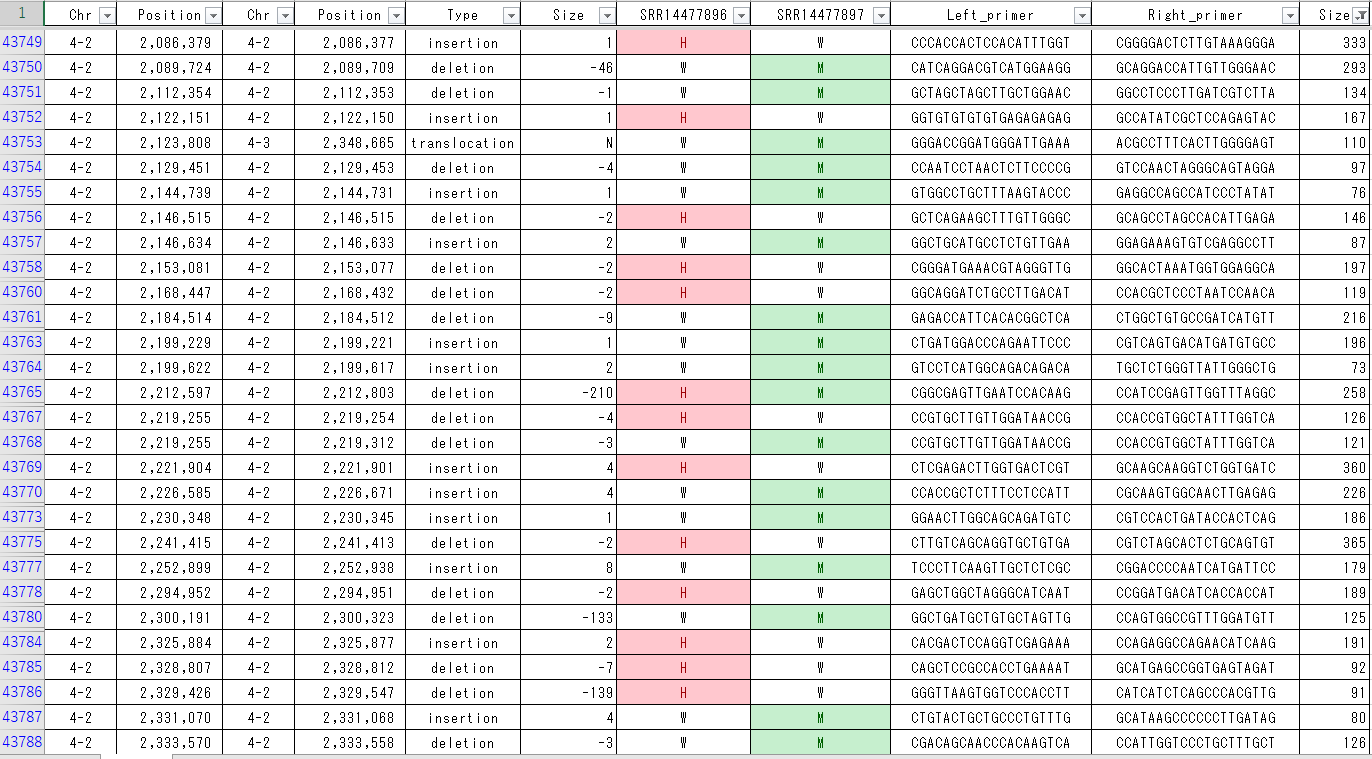
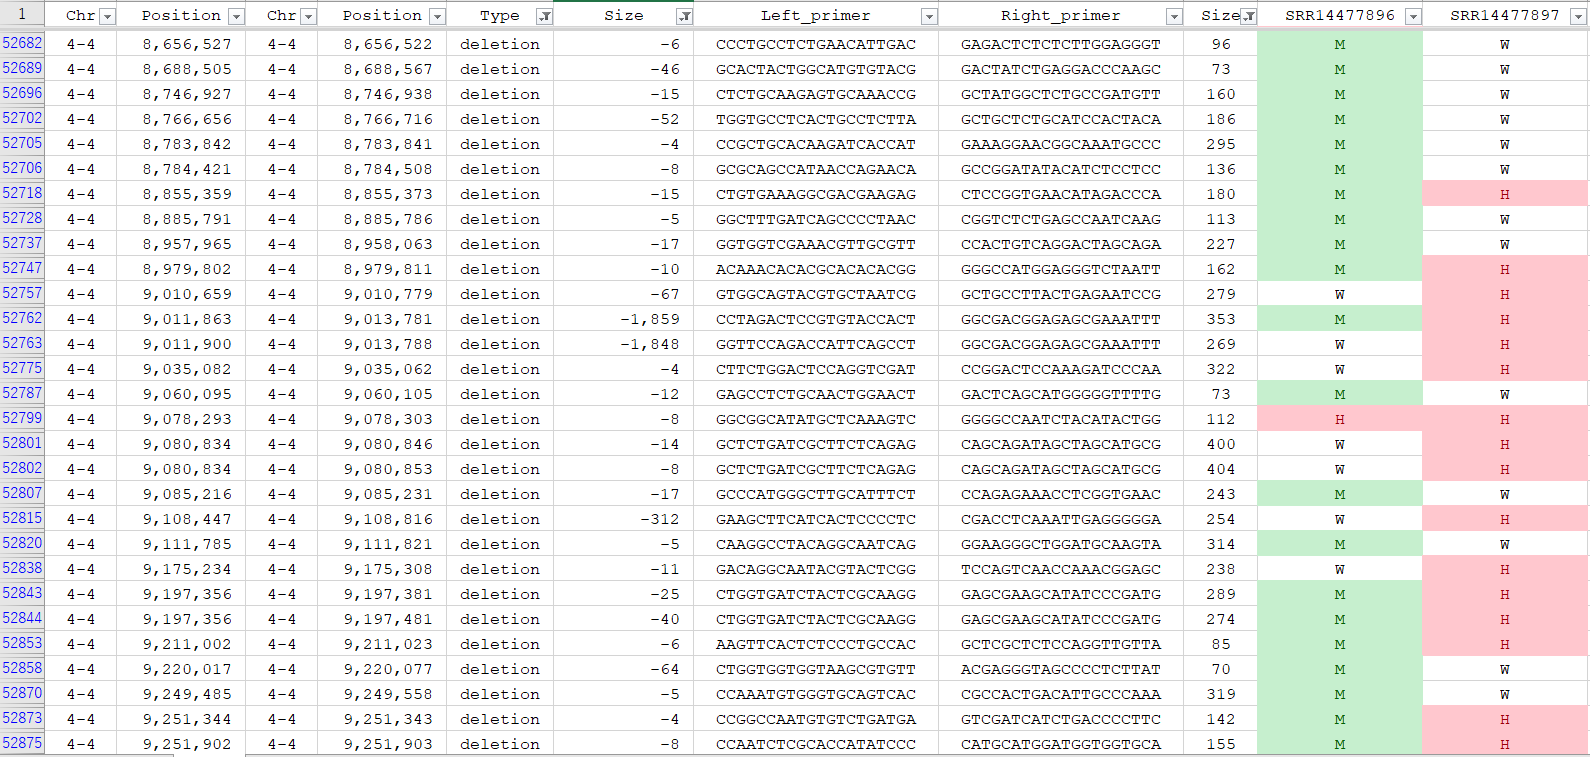
update tomato and strawberry page

diff --git a/tomato/index.html b/tomato/index.html
@@ -13,7 +13,8 @@
 <a href = "tomato_sv.png" target = "_blank"><img src = "tomato_sv.png" height = "25%"></a>
 <a href = "tomato.png" target = "_blank"><img src = "tomato.png" height = "25%"></a> 表をクリックすると拡大されます。<br>
 第3染色体の68,264,550までは、ERR5348981はリファレンスと同じで、ERR5348982がリファレンスに対して変異型のセグメントを持っており、<br>
-68,264,741からは、逆にERR5348981が変異型のセグメントを持っていることがわかります。
+68,264,741からは、逆にERR5348981が変異型のセグメントを持っていることがわかります。<br>
+緑色でマークしたMが変異型ホモ、ここには見えていませんがHがヘテロ、Wがリファレンスと同じ野生型となっています。
 
     </ul>
     <h2>Ubuntuのインストール</h2>
@@ -105,17 +106,20 @@ GGGGTCTAGATTCCGGTCGTGACAAAAACATTTTCTGGAAAATGTTTTTCGCCATACCAAACACACCCTAATCTCAATTT
     vcfファイルは、indelの始まる一つ前の塩基の位置を出力しますが、ped.plのアラインメントでは、変異が始まった最初の塩基の位置を出力しています。<br>
     indelのアラインメントの検索を行う場合は、vcfファイルの位置に1を加えた値で検索してください。
 
-    <li>2つの解析結果からの遺伝子型の比較<br>
-    $ perl compare.pl ERR5348981 ERR5348982<br>
+    <li>複数のの解析結果からの遺伝子型の比較<br>
+    $ perl compare.pl target=ERR5348981:ERR5348982<br>
     とすると、ERR5348981とERR5348982のSNPの遺伝子型と確認用プライマー配列が表示されます。<br><br>
     置換変異を見たい場合は、<br>
-    $ perl compare.pl ERR5348981 ERR5348982<br><br>
+    $ perl compare.pl target=ERR5348981:ERR5348982<br><br>
     構造変異を見たい場合は、<br>
-    $ perl compare.pl ERR5348981 ERR5348982 sv<br>
+    $ perl compare.pl target=ERR5348981:ERR5348982,type=sv<br>
 とします。<br><br>
 ファイルに出力したい場合は、<br>
-    $ perl compare.pl ERR5348981 ERR5348982 > result.txt<br>
-のようにします。<br><br>
+    $ perl compare.pl target=ERR5348981:ERR5348982 > result.txt<br>
+のようにします。<br>
+    ターゲット(ディレクトリ)名を:で区切って target= の後に列挙すれば、結果の遺伝子型のカラムもその順に表示されます。<br>
+    オプションにスペースを入れないように注意してください。<br><br>
+
 エクセルに取り込み、遺伝子型に色を付けるとセグメントがわかります。<br>
 <a href = "tomato_sv.png" target = "_blank"><img src = "tomato_sv.png" width = "25%"></a>     </ul>
       <h2>PEDに関する資料</h2>
